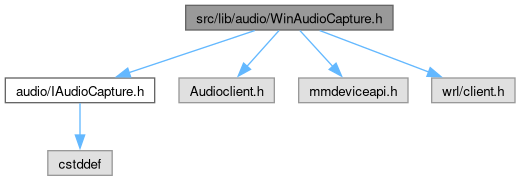
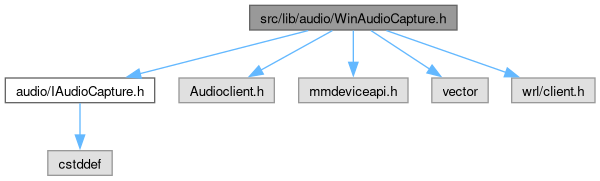
Deploying to gh-pages from @ oudajosefu/deskflow@698d9f17faa660f7b06bad7a18cdbbd2dce9565e 🚀

diff --git a/WinAudioCapture_8h_source.html b/WinAudioCapture_8h_source.html
@@ -106,38 +106,43 @@ $(function(){initNavTree('WinAudioCapture_8h_source.html','',''); });
 <div class="line"><a id="l00010" name="l00010"></a><span class="lineno">   10</span> </div>
 <div class="line"><a id="l00011" name="l00011"></a><span class="lineno">   11</span><span class="preprocessor">#include &lt;Audioclient.h&gt;</span></div>
 <div class="line"><a id="l00012" name="l00012"></a><span class="lineno">   12</span><span class="preprocessor">#include &lt;mmdeviceapi.h&gt;</span></div>
-<div class="line"><a id="l00013" name="l00013"></a><span class="lineno">   13</span><span class="preprocessor">#include &lt;wrl/client.h&gt;</span></div>
-<div class="line"><a id="l00014" name="l00014"></a><span class="lineno">   14</span></div>
-<div class="foldopen" id="foldopen00016" data-start="{" data-end="};">
-<div class="line"><a id="l00016" name="l00016"></a><span class="lineno"><a class="line" href="classWinAudioCapture.html">   16</a></span><span class="keyword">class </span><a class="code hl_function" href="classWinAudioCapture.html#a494b48c0cd20d9beb546b6af3547e653">WinAudioCapture</a> : <span class="keyword">public</span> <a class="code hl_class" href="classIAudioCapture.html">IAudioCapture</a></div>
-<div class="line"><a id="l00017" name="l00017"></a><span class="lineno">   17</span>{</div>
-<div class="line"><a id="l00018" name="l00018"></a><span class="lineno">   18</span><span class="keyword">public</span>:</div>
-<div class="line"><a id="l00019" name="l00019"></a><span class="lineno"><a class="line" href="classWinAudioCapture.html#a494b48c0cd20d9beb546b6af3547e653">   19</a></span>  <a class="code hl_function" href="classWinAudioCapture.html#a494b48c0cd20d9beb546b6af3547e653">WinAudioCapture</a>() = <span class="keywordflow">default</span>;</div>
-<div class="line"><a id="l00020" name="l00020"></a><span class="lineno">   20</span>  <a class="code hl_function" href="classWinAudioCapture.html#a6759ea30f03e6619dcaf7ed5597c4c39">~WinAudioCapture</a>() <span class="keyword">override</span>;</div>
-<div class="line"><a id="l00021" name="l00021"></a><span class="lineno">   21</span> </div>
-<div class="line"><a id="l00022" name="l00022"></a><span class="lineno"><a class="line" href="classWinAudioCapture.html#a96e60b387e4d55afd0ee4ee2b7468cd2">   22</a></span>  <a class="code hl_function" href="classWinAudioCapture.html#a96e60b387e4d55afd0ee4ee2b7468cd2">WinAudioCapture</a>(<span class="keyword">const</span> <a class="code hl_function" href="classWinAudioCapture.html#a494b48c0cd20d9beb546b6af3547e653">WinAudioCapture</a> &amp;) = <span class="keyword">delete</span>;</div>
-<div class="line"><a id="l00023" name="l00023"></a><span class="lineno"><a class="line" href="classWinAudioCapture.html#afeb4258e0a4f215be9ed00bb3a68c5d8">   23</a></span>  <a class="code hl_function" href="classWinAudioCapture.html#a494b48c0cd20d9beb546b6af3547e653">WinAudioCapture</a> &amp;<a class="code hl_function" href="classWinAudioCapture.html#afeb4258e0a4f215be9ed00bb3a68c5d8">operator=</a>(<span class="keyword">const</span> <a class="code hl_function" href="classWinAudioCapture.html#a494b48c0cd20d9beb546b6af3547e653">WinAudioCapture</a> &amp;) = <span class="keyword">delete</span>;</div>
-<div class="line"><a id="l00024" name="l00024"></a><span class="lineno">   24</span> </div>
-<div class="line"><a id="l00025" name="l00025"></a><span class="lineno">   25</span>  <span class="keywordtype">bool</span> <a class="code hl_function" href="classWinAudioCapture.html#a2b87def79ee8b13ecbc9cbabeb2aa0f9">start</a>() <span class="keyword">override</span>;</div>
-<div class="line"><a id="l00026" name="l00026"></a><span class="lineno">   26</span>  <span class="keywordtype">void</span> <a class="code hl_function" href="classWinAudioCapture.html#acfc71f7411d363702f8b0a4a1874c9cb">stop</a>() <span class="keyword">override</span>;</div>
-<div class="line"><a id="l00027" name="l00027"></a><span class="lineno">   27</span>  <span class="keywordtype">size_t</span> <a class="code hl_function" href="classWinAudioCapture.html#a24bb79d4f93e20ee801449319553c748">readFrames</a>(<span class="keywordtype">float</span> *<a class="code hl_variable" href="ArchNetworkWinsock_8cpp.html#ac2b1742b0d829eff8513995ebd5a0bac">buf</a>, <span class="keywordtype">size_t</span> frames) <span class="keyword">override</span>;</div>
-<div class="line"><a id="l00028" name="l00028"></a><span class="lineno">   28</span> </div>
-<div class="line"><a id="l00029" name="l00029"></a><span class="lineno">   29</span><span class="keyword">private</span>:</div>
-<div class="line"><a id="l00030" name="l00030"></a><span class="lineno">   30</span>  Microsoft::WRL::ComPtr&lt;IMMDevice&gt; m_device;</div>
-<div class="line"><a id="l00031" name="l00031"></a><span class="lineno">   31</span>  Microsoft::WRL::ComPtr&lt;IAudioClient&gt; m_audioClient;</div>
-<div class="line"><a id="l00032" name="l00032"></a><span class="lineno">   32</span>  Microsoft::WRL::ComPtr&lt;IAudioCaptureClient&gt; m_captureClient;</div>
-<div class="line"><a id="l00033" name="l00033"></a><span class="lineno">   33</span> </div>
-<div class="line"><a id="l00034" name="l00034"></a><span class="lineno">   34</span>  WAVEFORMATEX *m_mixFormat = <span class="keyword">nullptr</span>;</div>
-<div class="line"><a id="l00035" name="l00035"></a><span class="lineno">   35</span>  <span class="keywordtype">bool</span> m_comInitialized = <span class="keyword">false</span>;</div>
-<div class="line"><a id="l00036" name="l00036"></a><span class="lineno">   36</span>  <span class="comment">// When true, the loopback stream uses the device mix format and readFrames() must convert each frame to float32</span></div>
-<div class="line"><a id="l00037" name="l00037"></a><span class="lineno">   37</span>  <span class="comment">// stereo. When false, WASAPI auto-converts to our 48 kHz float32 stereo format and readFrames() copies directly.</span></div>
-<div class="line"><a id="l00038" name="l00038"></a><span class="lineno">   38</span>  <span class="keywordtype">bool</span> m_convertFromDeviceFormat = <span class="keyword">false</span>;</div>
-<div class="line"><a id="l00039" name="l00039"></a><span class="lineno">   39</span>};</div>
+<div class="line"><a id="l00013" name="l00013"></a><span class="lineno">   13</span><span class="preprocessor">#include &lt;vector&gt;</span></div>
+<div class="line"><a id="l00014" name="l00014"></a><span class="lineno">   14</span><span class="preprocessor">#include &lt;wrl/client.h&gt;</span></div>
+<div class="line"><a id="l00015" name="l00015"></a><span class="lineno">   15</span></div>
+<div class="foldopen" id="foldopen00017" data-start="{" data-end="};">
+<div class="line"><a id="l00017" name="l00017"></a><span class="lineno"><a class="line" href="classWinAudioCapture.html">   17</a></span><span class="keyword">class </span><a class="code hl_function" href="classWinAudioCapture.html#a494b48c0cd20d9beb546b6af3547e653">WinAudioCapture</a> : <span class="keyword">public</span> <a class="code hl_class" href="classIAudioCapture.html">IAudioCapture</a></div>
+<div class="line"><a id="l00018" name="l00018"></a><span class="lineno">   18</span>{</div>
+<div class="line"><a id="l00019" name="l00019"></a><span class="lineno">   19</span><span class="keyword">public</span>:</div>
+<div class="line"><a id="l00020" name="l00020"></a><span class="lineno"><a class="line" href="classWinAudioCapture.html#a494b48c0cd20d9beb546b6af3547e653">   20</a></span>  <a class="code hl_function" href="classWinAudioCapture.html#a494b48c0cd20d9beb546b6af3547e653">WinAudioCapture</a>() = <span class="keywordflow">default</span>;</div>
+<div class="line"><a id="l00021" name="l00021"></a><span class="lineno">   21</span>  <a class="code hl_function" href="classWinAudioCapture.html#a6759ea30f03e6619dcaf7ed5597c4c39">~WinAudioCapture</a>() <span class="keyword">override</span>;</div>
+<div class="line"><a id="l00022" name="l00022"></a><span class="lineno">   22</span> </div>
+<div class="line"><a id="l00023" name="l00023"></a><span class="lineno"><a class="line" href="classWinAudioCapture.html#a96e60b387e4d55afd0ee4ee2b7468cd2">   23</a></span>  <a class="code hl_function" href="classWinAudioCapture.html#a96e60b387e4d55afd0ee4ee2b7468cd2">WinAudioCapture</a>(<span class="keyword">const</span> <a class="code hl_function" href="classWinAudioCapture.html#a494b48c0cd20d9beb546b6af3547e653">WinAudioCapture</a> &amp;) = <span class="keyword">delete</span>;</div>
+<div class="line"><a id="l00024" name="l00024"></a><span class="lineno"><a class="line" href="classWinAudioCapture.html#afeb4258e0a4f215be9ed00bb3a68c5d8">   24</a></span>  <a class="code hl_function" href="classWinAudioCapture.html#a494b48c0cd20d9beb546b6af3547e653">WinAudioCapture</a> &amp;<a class="code hl_function" href="classWinAudioCapture.html#afeb4258e0a4f215be9ed00bb3a68c5d8">operator=</a>(<span class="keyword">const</span> <a class="code hl_function" href="classWinAudioCapture.html#a494b48c0cd20d9beb546b6af3547e653">WinAudioCapture</a> &amp;) = <span class="keyword">delete</span>;</div>
+<div class="line"><a id="l00025" name="l00025"></a><span class="lineno">   25</span> </div>
+<div class="line"><a id="l00026" name="l00026"></a><span class="lineno">   26</span>  <span class="keywordtype">bool</span> <a class="code hl_function" href="classWinAudioCapture.html#a2b87def79ee8b13ecbc9cbabeb2aa0f9">start</a>() <span class="keyword">override</span>;</div>
+<div class="line"><a id="l00027" name="l00027"></a><span class="lineno">   27</span>  <span class="keywordtype">void</span> <a class="code hl_function" href="classWinAudioCapture.html#acfc71f7411d363702f8b0a4a1874c9cb">stop</a>() <span class="keyword">override</span>;</div>
+<div class="line"><a id="l00028" name="l00028"></a><span class="lineno">   28</span>  <span class="keywordtype">size_t</span> <a class="code hl_function" href="classWinAudioCapture.html#a24bb79d4f93e20ee801449319553c748">readFrames</a>(<span class="keywordtype">float</span> *<a class="code hl_variable" href="ArchNetworkWinsock_8cpp.html#ac2b1742b0d829eff8513995ebd5a0bac">buf</a>, <span class="keywordtype">size_t</span> frames) <span class="keyword">override</span>;</div>
+<div class="line"><a id="l00029" name="l00029"></a><span class="lineno">   29</span> </div>
+<div class="line"><a id="l00030" name="l00030"></a><span class="lineno">   30</span><span class="keyword">private</span>:</div>
+<div class="line"><a id="l00031" name="l00031"></a><span class="lineno">   31</span>  Microsoft::WRL::ComPtr&lt;IMMDevice&gt; m_device;</div>
+<div class="line"><a id="l00032" name="l00032"></a><span class="lineno">   32</span>  Microsoft::WRL::ComPtr&lt;IAudioClient&gt; m_audioClient;</div>
+<div class="line"><a id="l00033" name="l00033"></a><span class="lineno">   33</span>  Microsoft::WRL::ComPtr&lt;IAudioCaptureClient&gt; m_captureClient;</div>
+<div class="line"><a id="l00034" name="l00034"></a><span class="lineno">   34</span> </div>
+<div class="line"><a id="l00035" name="l00035"></a><span class="lineno">   35</span>  WAVEFORMATEX *m_mixFormat = <span class="keyword">nullptr</span>;</div>
+<div class="line"><a id="l00036" name="l00036"></a><span class="lineno">   36</span>  <span class="keywordtype">bool</span> m_comInitialized = <span class="keyword">false</span>;</div>
+<div class="line"><a id="l00037" name="l00037"></a><span class="lineno">   37</span>  <span class="comment">// When true, the loopback stream uses the device mix format and readFrames() must convert each frame to float32</span></div>
+<div class="line"><a id="l00038" name="l00038"></a><span class="lineno">   38</span>  <span class="comment">// stereo. When false, WASAPI auto-converts to our 48 kHz float32 stereo format and readFrames() copies directly.</span></div>
+<div class="line"><a id="l00039" name="l00039"></a><span class="lineno">   39</span>  <span class="keywordtype">bool</span> m_convertFromDeviceFormat = <span class="keyword">false</span>;</div>
+<div class="line"><a id="l00040" name="l00040"></a><span class="lineno">   40</span>  <span class="comment">// Interleaved float32 stereo samples captured from WASAPI but not yet returned. WASAPI loopback delivers ~10 ms</span></div>
+<div class="line"><a id="l00041" name="l00041"></a><span class="lineno">   41</span>  <span class="comment">// (480-frame) packets while callers ask for 20 ms (960-frame) blocks, so leftover samples must be retained across</span></div>
+<div class="line"><a id="l00042" name="l00042"></a><span class="lineno">   42</span>  <span class="comment">// readFrames() calls instead of discarded; otherwise no full block is ever assembled and nothing is transmitted.</span></div>
+<div class="line"><a id="l00043" name="l00043"></a><span class="lineno">   43</span>  std::vector&lt;float&gt; m_residual;</div>
+<div class="line"><a id="l00044" name="l00044"></a><span class="lineno">   44</span>};</div>
 </div>
 <div class="ttc" id="aArchNetworkWinsock_8cpp_html_ac2b1742b0d829eff8513995ebd5a0bac"><div class="ttname"><a href="ArchNetworkWinsock_8cpp.html#ac2b1742b0d829eff8513995ebd5a0bac">buf</a></div><div class="ttdeci">static void FAR * buf</div><div class="ttdef"><b>Definition</b> ArchNetworkWinsock.cpp:38</div></div>
 <div class="ttc" id="aIAudioCapture_8h_html"><div class="ttname"><a href="IAudioCapture_8h.html">IAudioCapture.h</a></div></div>
 <div class="ttc" id="aclassIAudioCapture_html"><div class="ttname"><a href="classIAudioCapture.html">IAudioCapture</a></div><div class="ttdoc">Platform-agnostic interface for capturing system audio output (loopback).</div><div class="ttdef"><b>Definition</b> IAudioCapture.h:13</div></div>
-<div class="ttc" id="aclassWinAudioCapture_html_a24bb79d4f93e20ee801449319553c748"><div class="ttname"><a href="classWinAudioCapture.html#a24bb79d4f93e20ee801449319553c748">WinAudioCapture::readFrames</a></div><div class="ttdeci">size_t readFrames(float *buf, size_t frames) override</div><div class="ttdef"><b>Definition</b> WinAudioCapture.cpp:234</div></div>
+<div class="ttc" id="aclassWinAudioCapture_html_a24bb79d4f93e20ee801449319553c748"><div class="ttname"><a href="classWinAudioCapture.html#a24bb79d4f93e20ee801449319553c748">WinAudioCapture::readFrames</a></div><div class="ttdeci">size_t readFrames(float *buf, size_t frames) override</div><div class="ttdef"><b>Definition</b> WinAudioCapture.cpp:235</div></div>
 <div class="ttc" id="aclassWinAudioCapture_html_a2b87def79ee8b13ecbc9cbabeb2aa0f9"><div class="ttname"><a href="classWinAudioCapture.html#a2b87def79ee8b13ecbc9cbabeb2aa0f9">WinAudioCapture::start</a></div><div class="ttdeci">bool start() override</div><div class="ttdoc">Open the capture device and start recording. Returns false on failure.</div><div class="ttdef"><b>Definition</b> WinAudioCapture.cpp:126</div></div>
 <div class="ttc" id="aclassWinAudioCapture_html_a494b48c0cd20d9beb546b6af3547e653"><div class="ttname"><a href="classWinAudioCapture.html#a494b48c0cd20d9beb546b6af3547e653">WinAudioCapture::WinAudioCapture</a></div><div class="ttdeci">WinAudioCapture()=default</div></div>
 <div class="ttc" id="aclassWinAudioCapture_html_a6759ea30f03e6619dcaf7ed5597c4c39"><div class="ttname"><a href="classWinAudioCapture.html#a6759ea30f03e6619dcaf7ed5597c4c39">WinAudioCapture::~WinAudioCapture</a></div><div class="ttdeci">~WinAudioCapture() override</div><div class="ttdef"><b>Definition</b> WinAudioCapture.cpp:114</div></div>

diff --git a/WinAudioCapture_8cpp.html b/WinAudioCapture_8cpp.html
@@ -109,49 +109,50 @@ Include dependency graph for WinAudioCapture.cpp:</div>
 <div class="dyncontent">
 <div class="center"><img src="WinAudioCapture_8cpp__incl.png" border="0" usemap="#asrc_2lib_2audio_2WinAudioCapture_8cpp" loading="lazy" alt=""/></div>
 <map name="asrc_2lib_2audio_2WinAudioCapture_8cpp" id="asrc_2lib_2audio_2WinAudioCapture_8cpp">
-<area shape="rect" title=" " alt="" coords="853,5,1075,30"/>
-<area shape="rect" href="WinAudioCapture_8h.html" title=" " alt="" coords="269,85,438,110"/>
-<area shape="poly" title=" " alt="" coords="867,32,491,81,453,85,452,80,490,75,872,29"/>
-<area shape="rect" href="AudioTypes_8h.html" title=" " alt="" coords="502,85,636,110"/>
-<area shape="poly" title=" " alt="" coords="899,31,655,81,639,84,638,79,654,75,904,30"/>
-<area shape="rect" title=" " alt="" coords="539,165,600,189"/>
-<area shape="poly" title=" " alt="" coords="862,31,783,51,740,64,700,80,674,98,650,119,598,158,595,153,646,115,671,93,697,76,739,59,781,46,868,30"/>
-<area shape="rect" href="Log_8h.html" title=" " alt="" coords="711,85,796,110"/>
-<area shape="poly" title=" " alt="" coords="935,30,800,82,798,77,930,31"/>
-<area shape="rect" title=" " alt="" coords="820,78,969,117"/>
-<area shape="poly" title=" " alt="" coords="956,29,923,69,920,64,951,32"/>
-<area shape="rect" title=" " alt="" coords="994,85,1075,110"/>
-<area shape="poly" title=" " alt="" coords="975,28,1016,74,1011,73,974,33"/>
-<area shape="rect" title=" " alt="" coords="1100,85,1172,110"/>
-<area shape="poly" title=" " alt="" coords="990,28,1099,78,1094,78,989,33"/>
-<area shape="rect" title=" " alt="" coords="1196,85,1270,110"/>
-<area shape="poly" title=" " alt="" coords="1012,28,1185,75,1191,80,1186,79,1183,81,1012,33"/>
-<area shape="rect" title=" " alt="" coords="1295,85,1356,110"/>
-<area shape="poly" title=" " alt="" coords="1056,28,1166,47,1283,75,1289,79,1284,79,1282,81,1165,52,1056,33"/>
-<area shape="rect" title=" " alt="" coords="1380,85,1436,110"/>
-<area shape="poly" title=" " alt="" coords="1075,24,1216,42,1294,57,1369,75,1374,79,1369,79,1367,81,1292,62,1216,47,1075,30"/>
+<area shape="rect" title=" " alt="" coords="809,5,1031,30"/>
+<area shape="rect" href="WinAudioCapture_8h.html" title=" " alt="" coords="321,85,490,110"/>
+<area shape="poly" title=" " alt="" coords="840,32,498,85,497,80,845,29"/>
+<area shape="rect" title=" " alt="" coords="538,165,595,189"/>
+<area shape="poly" title=" " alt="" coords="806,26,743,35,678,46,624,61,603,70,589,80,578,95,571,113,567,151,562,148,566,112,573,92,585,76,600,65,622,55,677,40,742,30,811,25"/>
+<area shape="rect" href="AudioTypes_8h.html" title=" " alt="" coords="598,85,732,110"/>
+<area shape="poly" title=" " alt="" coords="884,30,719,83,717,77,879,31"/>
+<area shape="rect" title=" " alt="" coords="630,165,690,189"/>
+<area shape="poly" title=" " alt="" coords="894,30,846,53,796,80,770,99,746,119,690,158,688,153,742,115,767,94,793,76,844,49,889,31"/>
+<area shape="rect" href="Log_8h.html" title=" " alt="" coords="807,85,892,110"/>
+<area shape="poly" title=" " alt="" coords="912,29,872,76,869,71,907,32"/>
+<area shape="rect" title=" " alt="" coords="916,78,1065,117"/>
+<area shape="poly" title=" " alt="" coords="931,28,966,67,961,66,930,33"/>
+<area shape="rect" title=" " alt="" coords="1090,85,1171,110"/>
+<area shape="poly" title=" " alt="" coords="952,28,1088,79,1082,79,951,33"/>
+<area shape="rect" title=" " alt="" coords="1196,85,1268,110"/>
+<area shape="poly" title=" " alt="" coords="984,28,1079,48,1185,75,1191,80,1186,79,1183,81,1078,53,984,33"/>
+<area shape="rect" title=" " alt="" coords="1292,85,1366,110"/>
+<area shape="poly" title=" " alt="" coords="1023,28,1147,47,1281,75,1289,80,1284,80,1279,81,1146,52,1023,33"/>
+<area shape="rect" title=" " alt="" coords="1391,85,1452,110"/>
+<area shape="poly" title=" " alt="" coords="1031,22,1197,40,1289,55,1379,75,1385,79,1380,79,1378,81,1288,60,1196,45,1031,27"/>
 <area shape="rect" href="IAudioCapture_8h.html" title=" " alt="" coords="5,165,155,189"/>
-<area shape="poly" title=" " alt="" coords="312,113,137,162,135,157,313,108"/>
+<area shape="poly" title=" " alt="" coords="356,113,144,163,143,158,357,108"/>
 <area shape="rect" title=" " alt="" coords="179,165,274,189"/>
-<area shape="poly" title=" " alt="" coords="337,109,260,158,258,154,332,111"/>
+<area shape="poly" title=" " alt="" coords="381,109,268,161,266,156,376,111"/>
 <area shape="rect" title=" " alt="" coords="299,165,408,189"/>
-<area shape="poly" title=" " alt="" coords="355,108,356,150,351,148,352,112"/>
+<area shape="poly" title=" " alt="" coords="400,109,371,154,368,150,395,112"/>
+<area shape="poly" title=" " alt="" coords="430,108,531,157,526,158,429,113"/>
 <area shape="rect" title=" " alt="" coords="432,165,515,189"/>
-<area shape="poly" title=" " alt="" coords="372,107,445,156,440,156,370,113"/>
+<area shape="poly" title=" " alt="" coords="416,108,456,153,451,152,414,113"/>
 <area shape="rect" title=" " alt="" coords="48,237,112,262"/>
 <area shape="poly" title=" " alt="" coords="82,188,83,223,77,221,78,192"/>
-<area shape="poly" title=" " alt="" coords="571,108,572,151,567,147,568,112"/>
-<area shape="rect" href="LogLevel_8h.html" title=" " alt="" coords="623,165,761,189"/>
-<area shape="poly" title=" " alt="" coords="747,109,712,155,709,150,742,111"/>
-<area shape="rect" title=" " alt="" coords="758,237,823,262"/>
-<area shape="poly" title=" " alt="" coords="759,108,776,164,788,223,784,220,771,165,756,112"/>
-<area shape="rect" title=" " alt="" coords="835,165,874,189"/>
-<area shape="poly" title=" " alt="" coords="769,107,830,155,825,154,768,113"/>
-<area shape="rect" title=" " alt="" coords="898,165,955,189"/>
-<area shape="poly" title=" " alt="" coords="780,108,889,158,884,158,779,113"/>
-<area shape="rect" title=" " alt="" coords="657,237,727,262"/>
-<area shape="poly" title=" " alt="" coords="694,188,694,224,690,220,690,192"/>
-<area shape="poly" title=" " alt="" coords="709,187,765,229,759,227,707,192"/>
+<area shape="poly" title=" " alt="" coords="666,108,664,151,660,147,663,112"/>
+<area shape="rect" href="LogLevel_8h.html" title=" " alt="" coords="714,165,851,189"/>
+<area shape="poly" title=" " alt="" coords="842,109,804,155,801,151,837,111"/>
+<area shape="rect" title=" " alt="" coords="849,237,914,262"/>
+<area shape="poly" title=" " alt="" coords="853,108,867,164,878,223,874,220,861,165,850,112"/>
+<area shape="rect" title=" " alt="" coords="926,165,965,189"/>
+<area shape="poly" title=" " alt="" coords="864,107,922,155,917,154,863,113"/>
+<area shape="rect" title=" " alt="" coords="989,165,1046,189"/>
+<area shape="poly" title=" " alt="" coords="875,108,981,158,976,158,874,113"/>
+<area shape="rect" title=" " alt="" coords="748,237,817,262"/>
+<area shape="poly" title=" " alt="" coords="785,188,785,224,781,220,781,192"/>
+<area shape="poly" title=" " alt="" coords="800,187,855,229,850,227,798,192"/>
 </map>
 </div>
 </div></div><!-- contents -->

diff --git a/AudioServer_8h_source.html b/AudioServer_8h_source.html
@@ -144,16 +144,19 @@ $(function(){initNavTree('AudioServer_8h_source.html','',''); });
 <div class="line"><a id="l00055" name="l00055"></a><span class="lineno">   55</span>    QByteArray buffer;</div>
 <div class="line"><a id="l00056" name="l00056"></a><span class="lineno">   56</span>    std::unique_ptr&lt;OpusDecoderWrapper&gt; decoder;</div>
 <div class="line"><a id="l00057" name="l00057"></a><span class="lineno">   57</span>    std::unique_ptr&lt;IAudioPlayback&gt; playback;</div>
-<div class="line"><a id="l00058" name="l00058"></a><span class="lineno">   58</span>  };</div>
-<div class="line"><a id="l00059" name="l00059"></a><span class="lineno">   59</span> </div>
-<div class="line"><a id="l00060" name="l00060"></a><span class="lineno">   60</span>  <span class="keywordtype">void</span> processHandshake(ClientSession &amp;session);</div>
-<div class="line"><a id="l00061" name="l00061"></a><span class="lineno">   61</span>  <span class="keywordtype">void</span> processAudioData(ClientSession &amp;session);</div>
-<div class="line"><a id="l00062" name="l00062"></a><span class="lineno">   62</span>  <span class="keywordtype">void</span> startPlayback(ClientSession &amp;session);</div>
-<div class="line"><a id="l00063" name="l00063"></a><span class="lineno">   63</span> </div>
-<div class="line"><a id="l00064" name="l00064"></a><span class="lineno">   64</span>  quint16 m_port;</div>
-<div class="line"><a id="l00065" name="l00065"></a><span class="lineno">   65</span>  QTcpServer *m_server = <span class="keyword">nullptr</span>;</div>
-<div class="line"><a id="l00066" name="l00066"></a><span class="lineno">   66</span>  QList&lt;ClientSession *&gt; m_sessions;</div>
-<div class="line"><a id="l00067" name="l00067"></a><span class="lineno">   67</span>};</div>
+<div class="line"><a id="l00058" name="l00058"></a><span class="lineno">   58</span>    quint64 packetsReceived = 0;</div>
+<div class="line"><a id="l00059" name="l00059"></a><span class="lineno">   59</span>    quint64 framesPlayed = 0;</div>
+<div class="line"><a id="l00060" name="l00060"></a><span class="lineno">   60</span>    quint64 lastLoggedPackets = 0;</div>
+<div class="line"><a id="l00061" name="l00061"></a><span class="lineno">   61</span>  };</div>
+<div class="line"><a id="l00062" name="l00062"></a><span class="lineno">   62</span> </div>
+<div class="line"><a id="l00063" name="l00063"></a><span class="lineno">   63</span>  <span class="keywordtype">void</span> processHandshake(ClientSession &amp;session);</div>
+<div class="line"><a id="l00064" name="l00064"></a><span class="lineno">   64</span>  <span class="keywordtype">void</span> processAudioData(ClientSession &amp;session);</div>
+<div class="line"><a id="l00065" name="l00065"></a><span class="lineno">   65</span>  <span class="keywordtype">void</span> startPlayback(ClientSession &amp;session);</div>
+<div class="line"><a id="l00066" name="l00066"></a><span class="lineno">   66</span> </div>
+<div class="line"><a id="l00067" name="l00067"></a><span class="lineno">   67</span>  quint16 m_port;</div>
+<div class="line"><a id="l00068" name="l00068"></a><span class="lineno">   68</span>  QTcpServer *m_server = <span class="keyword">nullptr</span>;</div>
+<div class="line"><a id="l00069" name="l00069"></a><span class="lineno">   69</span>  QList&lt;ClientSession *&gt; m_sessions;</div>
+<div class="line"><a id="l00070" name="l00070"></a><span class="lineno">   70</span>};</div>
 </div>
 <div class="ttc" id="aclassAudioServer_html_a1b5539be8f59bc95f02d06825066cc6f"><div class="ttname"><a href="classAudioServer.html#a1b5539be8f59bc95f02d06825066cc6f">AudioServer::~AudioServer</a></div><div class="ttdeci">~AudioServer() override</div><div class="ttdef"><b>Definition</b> AudioServer.cpp:39</div></div>
 <div class="ttc" id="aclassAudioServer_html_a2585e0fa091f20054cae6673ef6a0f36"><div class="ttname"><a href="classAudioServer.html#a2585e0fa091f20054cae6673ef6a0f36">AudioServer::AudioServer</a></div><div class="ttdeci">AudioServer(quint16 port, QObject *parent=nullptr)</div><div class="ttdef"><b>Definition</b> AudioServer.cpp:35</div></div>

diff --git a/LogWidget_8h_source.html b/LogWidget_8h_source.html
@@ -123,11 +123,11 @@ $(function(){initNavTree('LogWidget_8h_source.html','',''); });
 <div class="line"><a id="l00026" name="l00026"></a><span class="lineno">   26</span>  QPlainTextEdit *m_textLog = <span class="keyword">nullptr</span>;</div>
 <div class="line"><a id="l00027" name="l00027"></a><span class="lineno">   27</span>};</div>
 </div>
-<div class="ttc" id="aclassLogWidget_html_a218f65bb1b3724579952cfdc2fc89941"><div class="ttname"><a href="classLogWidget.html#a218f65bb1b3724579952cfdc2fc89941">LogWidget::findNext</a></div><div class="ttdeci">void findNext(const QString &amp;text)</div><div class="ttdef"><b>Definition</b> LogWidget.cpp:53</div></div>
-<div class="ttc" id="aclassLogWidget_html_a46782c113d9636b91dec16c178cd40ea"><div class="ttname"><a href="classLogWidget.html#a46782c113d9636b91dec16c178cd40ea">LogWidget::appendLine</a></div><div class="ttdeci">void appendLine(const QString &amp;msg)</div><div class="ttdef"><b>Definition</b> LogWidget.cpp:48</div></div>
+<div class="ttc" id="aclassLogWidget_html_a218f65bb1b3724579952cfdc2fc89941"><div class="ttname"><a href="classLogWidget.html#a218f65bb1b3724579952cfdc2fc89941">LogWidget::findNext</a></div><div class="ttdeci">void findNext(const QString &amp;text)</div><div class="ttdef"><b>Definition</b> LogWidget.cpp:54</div></div>
+<div class="ttc" id="aclassLogWidget_html_a46782c113d9636b91dec16c178cd40ea"><div class="ttname"><a href="classLogWidget.html#a46782c113d9636b91dec16c178cd40ea">LogWidget::appendLine</a></div><div class="ttdeci">void appendLine(const QString &amp;msg)</div><div class="ttdef"><b>Definition</b> LogWidget.cpp:49</div></div>
 <div class="ttc" id="aclassLogWidget_html_aa9299a01d5164aac988df2a52721aa0e"><div class="ttname"><a href="classLogWidget.html#aa9299a01d5164aac988df2a52721aa0e">LogWidget::LogWidget</a></div><div class="ttdeci">LogWidget(QWidget *parent=nullptr)</div><div class="ttdef"><b>Definition</b> LogWidget.cpp:16</div></div>
-<div class="ttc" id="aclassLogWidget_html_acae13034eeee9da0b4fb48f120956027"><div class="ttname"><a href="classLogWidget.html#acae13034eeee9da0b4fb48f120956027">LogWidget::findPrevious</a></div><div class="ttdeci">void findPrevious(const QString &amp;text)</div><div class="ttdef"><b>Definition</b> LogWidget.cpp:64</div></div>
-<div class="ttc" id="aclassLogWidget_html_af0846e295fa2eabafe81234cfa450133"><div class="ttname"><a href="classLogWidget.html#af0846e295fa2eabafe81234cfa450133">LogWidget::scrollToBottom</a></div><div class="ttdeci">void scrollToBottom() const</div><div class="ttdef"><b>Definition</b> LogWidget.cpp:75</div></div>
+<div class="ttc" id="aclassLogWidget_html_acae13034eeee9da0b4fb48f120956027"><div class="ttname"><a href="classLogWidget.html#acae13034eeee9da0b4fb48f120956027">LogWidget::findPrevious</a></div><div class="ttdeci">void findPrevious(const QString &amp;text)</div><div class="ttdef"><b>Definition</b> LogWidget.cpp:65</div></div>
+<div class="ttc" id="aclassLogWidget_html_af0846e295fa2eabafe81234cfa450133"><div class="ttname"><a href="classLogWidget.html#af0846e295fa2eabafe81234cfa450133">LogWidget::scrollToBottom</a></div><div class="ttdeci">void scrollToBottom() const</div><div class="ttdef"><b>Definition</b> LogWidget.cpp:76</div></div>
 </div><!-- fragment --></div><!-- contents -->
 </div><!-- doc-content -->
 </div><!-- container -->

diff --git a/WinAudioCapture_8h.html b/WinAudioCapture_8h.html
@@ -97,21 +97,24 @@ $(function(){initNavTree('WinAudioCapture_8h.html','',''); });
 <div class="textblock"><code>#include &quot;<a class="el" href="IAudioCapture_8h_source.html">audio/IAudioCapture.h</a>&quot;</code><br />
 <code>#include &lt;Audioclient.h&gt;</code><br />
 <code>#include &lt;mmdeviceapi.h&gt;</code><br />
+<code>#include &lt;vector&gt;</code><br />
 <code>#include &lt;wrl/client.h&gt;</code><br />
 </div><div class="textblock"><div class="dynheader">
 Include dependency graph for WinAudioCapture.h:</div>
 <div class="dyncontent">
 <div class="center"><img src="WinAudioCapture_8h__incl.png" border="0" usemap="#asrc_2lib_2audio_2WinAudioCapture_8h" loading="lazy" alt=""/></div>
 <map name="asrc_2lib_2audio_2WinAudioCapture_8h" id="asrc_2lib_2audio_2WinAudioCapture_8h">
-<area shape="rect" title=" " alt="" coords="186,5,393,30"/>
+<area shape="rect" title=" " alt="" coords="250,5,457,30"/>
 <area shape="rect" href="IAudioCapture_8h.html" title=" " alt="" coords="5,78,155,103"/>
-<area shape="poly" title=" " alt="" coords="253,33,130,75,128,70,256,28"/>
+<area shape="poly" title=" " alt="" coords="307,33,140,76,139,71,309,28"/>
 <area shape="rect" title=" " alt="" coords="179,78,274,103"/>
-<area shape="poly" title=" " alt="" coords="281,29,249,68,245,64,277,32"/>
+<area shape="poly" title=" " alt="" coords="335,29,262,72,260,68,330,32"/>
 <area shape="rect" title=" " alt="" coords="299,78,408,103"/>
-<area shape="poly" title=" " alt="" coords="301,28,336,67,330,66,299,33"/>
-<area shape="rect" title=" " alt="" coords="432,78,515,103"/>
-<area shape="poly" title=" " alt="" coords="320,28,431,72,426,73,319,33"/>
+<area shape="poly" title=" " alt="" coords="355,28,356,64,351,61,352,33"/>
+<area shape="rect" title=" " alt="" coords="432,78,488,103"/>
+<area shape="poly" title=" " alt="" coords="372,28,432,69,427,69,370,33"/>
+<area shape="rect" title=" " alt="" coords="512,78,595,103"/>
+<area shape="poly" title=" " alt="" coords="387,28,509,72,503,73,386,33"/>
 <area shape="rect" title=" " alt="" coords="48,151,112,175"/>
 <area shape="poly" title=" " alt="" coords="82,101,83,136,77,134,78,105"/>
 </map>
